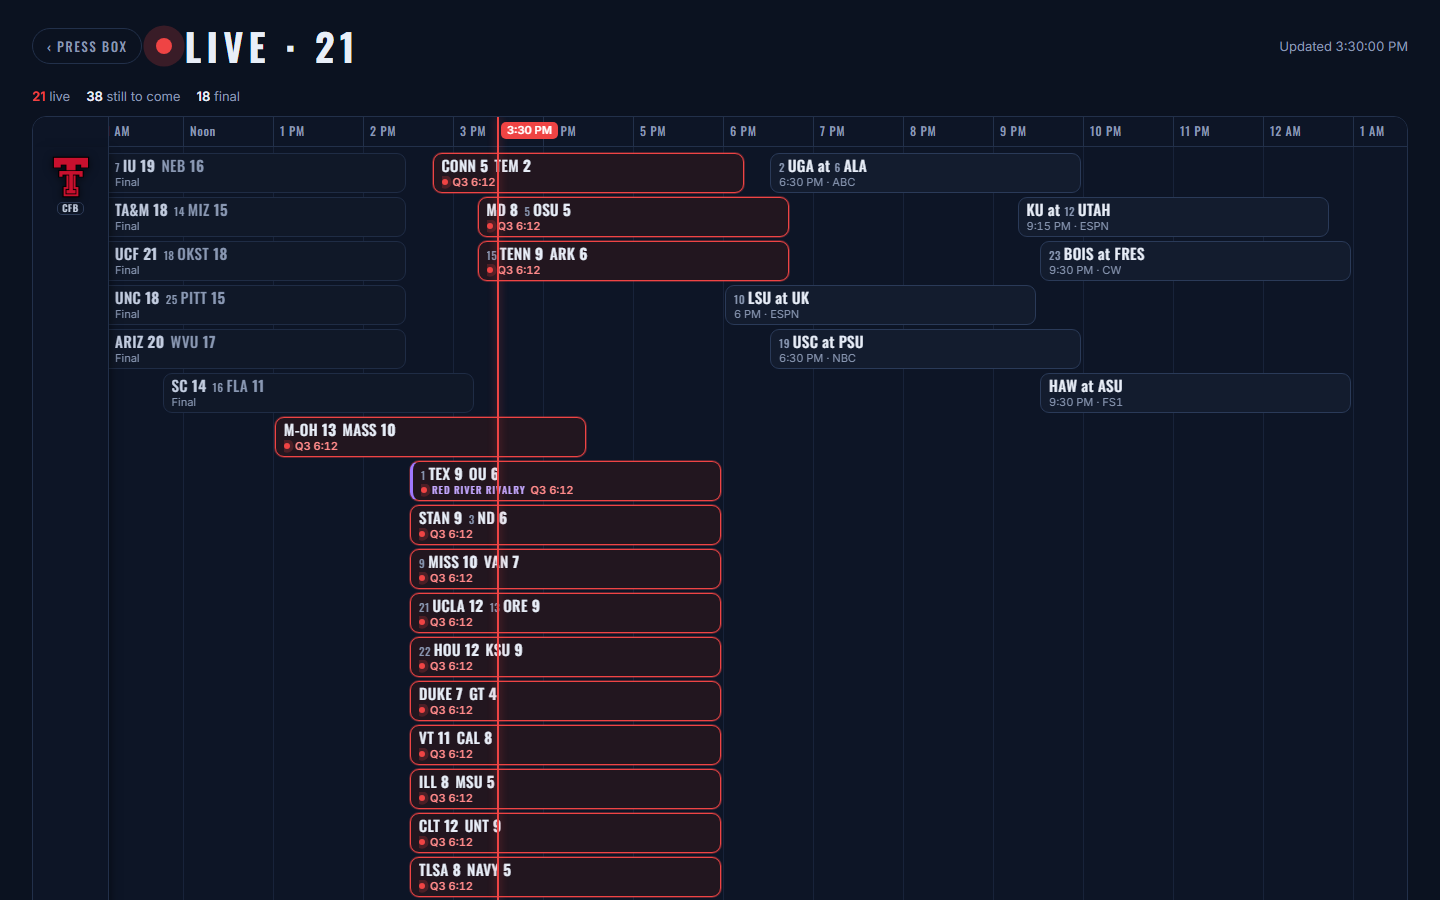
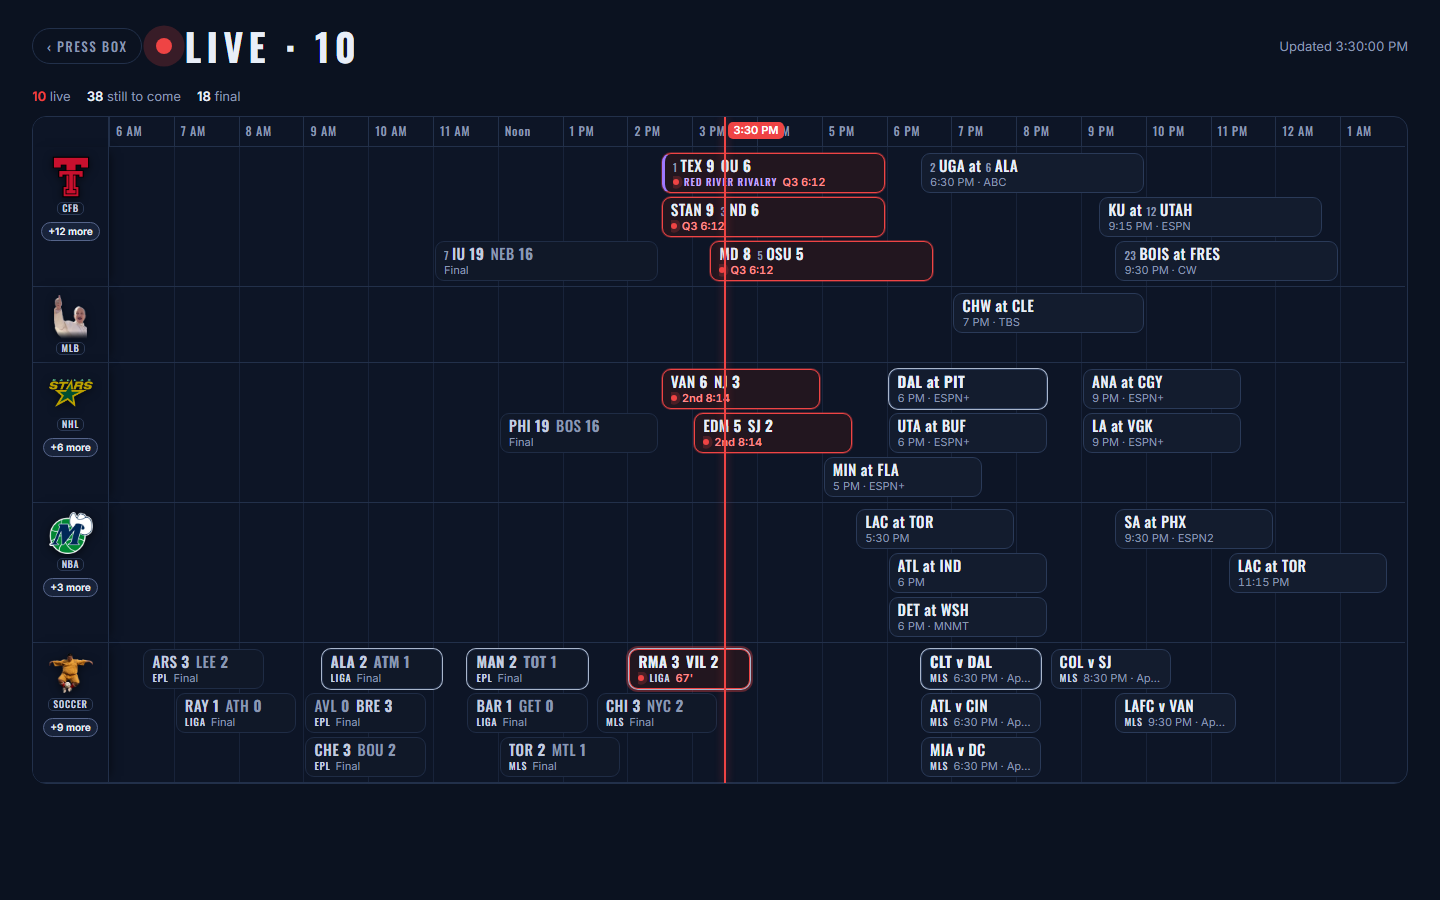
Live v9 fix round 2: keep() filter for live games, 3 lanes a sport with +N more list, PC day fits 1440 without sideways scroll, phone opens at now or first game; check 57/57
Claude-Session: https://claude.ai/code/session_01KJ2oHXb4VY3dh3E3qeNskr

diff --git a/live/index.html b/live/index.html
@@ -142,6 +142,23 @@ h2{border-left-color:#33415e}
 .gs .lead{display:flex;justify-content:space-between;align-items:center;margin-bottom:8px;font-size:12px;color:var(--dim)}
 .gs .lead a{color:var(--ink);font-weight:600;border-bottom:1px solid var(--dim)}
 .gs .g{box-shadow:0 18px 50px rgba(0,0,0,.6)}
+/* round 2: "+N more" under a sport's picture, and the full list it opens */
+.lab .more{margin-top:4px;padding:2px 6px;border-radius:999px;border:1px solid #55648a;background:#18233a;color:var(--ink);cursor:pointer;
+  font:600 10px/1.3 Inter,sans-serif;white-space:nowrap;max-width:calc(100% - 4px);overflow:hidden;text-overflow:ellipsis}
+.lab .more:hover,.lab .more:focus-visible{border-color:var(--ink);outline:none}
+@media (pointer:coarse){.lab .more{padding:5px 6px}}
+.gs .mlist{max-height:min(70vh,560px);overflow-y:auto;padding:6px;display:flex;flex-direction:column;gap:4px}
+.mi{display:grid;grid-template-columns:78px 1fr;gap:10px;align-items:center;width:100%;padding:8px 10px;border-radius:9px;border:1px solid transparent;
+  background:#0f1828;color:var(--ink);font:inherit;font-size:14px;text-align:left;cursor:pointer;min-height:40px}
+.mi:hover,.mi:focus-visible{border-color:#6b7ea3;outline:none}
+.mi .mt{font-size:12px;color:var(--dim);font-variant-numeric:tabular-nums;white-space:nowrap;overflow:hidden;text-overflow:ellipsis}
+.mi.in{border-color:rgba(239,68,68,.5)}.mi.in .mt{color:#ff8a8a;font-weight:600}
+.mi.fav .mm{font-weight:700}
+.mi .mm{min-width:0;overflow:hidden;text-overflow:ellipsis;white-space:nowrap}
+.mi .mm i{font-style:normal;font-size:11px;color:var(--dim);margin-right:3px}
+.mi .mm em{font-style:normal;font-weight:700;font-variant-numeric:tabular-nums}
+.mi .mm .lo{color:var(--dim)}
+.mi .mm .rv{display:block;background:none;padding:0;margin:2px 0 0;border-radius:0;color:#c4a8ff;font:500 10px/1.3 Oswald,sans-serif;letter-spacing:.1em;text-transform:uppercase}
 </style>
 </head>
 <body>
@@ -376,41 +393,70 @@ function openSheet(k) {
   document.getElementById("gs").classList.add("on");
 }
 function closeSheet() { opened = ""; document.getElementById("gs").classList.remove("on"); }
-document.getElementById("dg").addEventListener("click", e => { const b = e.target.closest(".b[data-g]"); if (b) openSheet(b.dataset.g); });
-document.getElementById("gs").addEventListener("click", e => { if (e.target.closest(".x") || e.target.id === "gs") closeSheet(); });
+/* round 2: a sport row keeps a few lanes; the rest of its games sit behind "+N more", a list in the same sheet */
+const MORE = {};
+function openMore(key) {
+  const m = MORE[key]; if (!m) return closeSheet();
+  const old = document.querySelector("#gsb .mlist"), keepTop = opened === "more:" + key && old ? old.scrollTop : 0;
+  opened = "more:" + key;
+  const row = g => { const a = +g.away.score || 0, h = +g.home.score || 0, pre = g.state === "pre", post = g.state === "post";
+    const nm = (t, lose) => `<span${lose ? ' class="lo"' : ""}>${t.rank ? `<i>${t.rank}</i>` : ""}${esc(g.lg.slim || g.lg.soc ? t.name : t.ab)}${pre ? "" : ` <em>${esc(t.score)}</em>`}</span>`;
+    const one = g.lg.soc ? [g.home, h < a && post, g.away, a < h && post] : [g.away, a < h && post, g.home, h < a && post];
+    return `<button type="button" class="mi ${g.state}${g.fav ? " fav" : ""}" data-g="${esc(g.lg.key + ":" + g.id)}"><span class="mt">${pre ? esc(ctTime(g.date)) : esc(g.detail || (post ? "Final" : "Live"))}</span>` +
+      `<span class="mm">${nm(one[0], one[1])}${pre ? (g.lg.soc ? " v " : " at ") : " "}${nm(one[2], one[3])}${g.rival ? `<small class="rv">${esc(g.rival)}</small>` : ""}</span></button>`; };
+  document.getElementById("gsb").innerHTML = `<div class="lead"><span>${esc(m.name)} · ${m.gs.length} games today</span></div><div class="g mlist">${m.gs.map(row).join("")}</div>`;
+  document.querySelector("#gsb .mlist").scrollTop = keepTop;
+  document.getElementById("gs").classList.add("on");
+}
+document.getElementById("dg").addEventListener("click", e => { const mo = e.target.closest(".more[data-more]"); if (mo) return openMore(mo.dataset.more);
+  const b = e.target.closest(".b[data-g]"); if (b) openSheet(b.dataset.g); });
+document.getElementById("gs").addEventListener("click", e => { const mi = e.target.closest(".mi[data-g]"); if (mi) return openSheet(mi.dataset.g);
+  if (e.target.closest(".x") || e.target.id === "gs") closeSheet(); });
 document.addEventListener("keydown", e => { if (e.key === "Escape" && opened && !document.querySelector("#pbpSheet.on")) closeSheet(); });
 document.getElementById("dg").addEventListener("scroll", () => { if (scrolled && !render.busy) userScrolled = true; }, { passive:true });
 function render() {
   const now = new Date(), all = [].concat(...LEAGUES.map(l => data[l.key] || []));
-  const live = all.filter(g => g.state === "in" && (!g.lg.cup || g.fav));
   const day = gridDay(), nowM = dayMin(now, day);
-  const today = all.filter(g => (g.state === "in" && (!g.lg.cup || g.fav)) || (ctKey(g.date) === day && keep(g)));
+  // round 2: live games pass the same keep() filter as the rest (college: his teams, ranked, rivalry, Big 12 country)
+  const today = all.filter(g => (!g.lg.cup || g.fav) && keep(g) && (g.state === "in" || ctKey(g.date) === day));
+  const live = today.filter(g => g.state === "in");
   for (const k in GM) delete GM[k];
+  for (const k in MORE) delete MORE[k];
+  for (const g of today) GM[g.lg.key + ":" + g.id] = g;
   const dg = document.getElementById("dg"), dgi = document.getElementById("dgi"); dg.style.display = "";   // shown before it is measured
   const phone = dg.clientWidth < 560;
-  const LAB = phone ? 58 : 76, LANE = 44, TOP = 6;
+  const LAB = phone ? 58 : 76, LANE = 44, TOP = 6, MAXL = 3;   // at most three lanes a sport, so every sport fits on one screen
   // the hours: from the first start (or now) to the last likely finish (or now), whole hours
   let lo = nowM, hi = nowM + 30;
   const span = g => { const s = dayMin(g.date, day); let e = s + RUN[sportOf(g.lg)]; if (g.state === "in") e = Math.max(e, nowM + 15); return [s, e]; };
   for (const g of today) { const [s, e] = span(g); lo = Math.min(lo, s); hi = Math.max(hi, e); }
   const h0 = Math.max(-6, Math.floor(lo / 60)), h1 = Math.max(h0 + 3, Math.ceil(hi / 60));
-  const PX = Math.max(phone ? 120 : 90, Math.floor((dg.clientWidth - LAB - 2) / (h1 - h0)));
-  const X = m => LAB + (m - h0 * 60) * PX / 60, W = LAB + (h1 - h0) * PX;
+  // the phone scrolls the hours sideways; the PC squeezes the whole day into its width, no sideways scroll
+  const PX = phone ? Math.max(120, Math.floor((dg.clientWidth - LAB - 2) / (h1 - h0))) : Math.max(24, (dg.clientWidth - LAB - 2) / (h1 - h0));
+  const X = m => LAB + (m - h0 * 60) * PX / 60, W = Math.floor(LAB + (h1 - h0) * PX);
+  const every = PX < 46 ? 2 : 1;   // a squeezed day names every other hour
   let rows = "", hours = "";
-  for (let h = h0; h < h1; h++) hours += `<span class="hr" style="left:${X(h * 60)}px;width:${PX}px">${hourName(h)}</span>`;
+  for (let h = h0; h < h1; h++) if ((h - h0) % every === 0) hours += `<span class="hr" style="left:${X(h * 60)}px;width:${PX * every}px">${hourName(h)}</span>`;
+  // which games get a lane first: his teams, live ones, rivalries, ranked, then by start time
+  const pri = g => (g.fav ? 1000 : 0) + (g.state === "in" ? 400 : 0) + (g.rival ? 200 : 0) + (g.away.rank || g.home.rank ? 100 - Math.min(g.away.rank || 99, g.home.rank || 99) : 0);
   for (const sp of SPORTS) {
     const gs = today.filter(g => sportOf(g.lg) === sp.key).sort((p, q) => (p.date - q.date) || (q.fav - p.fav));
     if (!gs.length) continue;   // a sport with nothing today gets no row
-    const ends = [], out = [];
-    for (const g of gs) {   // each game takes the first lane that is free at its start
-      const [s, e] = span(g); let i = ends.findIndex(t => t <= s);
-      if (i < 0) { i = ends.length; ends.push(0); }
-      ends[i] = e + 2;
-      out.push(block(g, X(s) + 2, Math.max(64, (e - s) * PX / 60 - 4), TOP + i * LANE));
+    const lanes = [], out = [];
+    let hid = 0;
+    for (const g of gs.slice().sort((p, q) => (pri(q) - pri(p)) || (p.date - q.date))) {   // each game takes the first lane free for its whole run
+      const [s, e] = span(g);
+      let i = lanes.findIndex(L => L.every(([a, b]) => e + 2 <= a || s >= b + 2));
+      if (i < 0 && lanes.length < MAXL) { i = lanes.length; lanes.push([]); }
+      if (i < 0) { hid++; continue; }   // no room: it waits behind "+N more"
+      lanes[i].push([s, e]);
+      out.push(block(g, X(s) + 2, Math.max(phone ? 64 : 40, (e - s) * PX / 60 - 4), TOP + i * LANE));
     }
-    const ht = Math.max(76, TOP * 2 + ends.length * LANE - 4);
+    if (hid) MORE[sp.key] = { name:sp.name, gs };
+    const ht = Math.max(hid ? 96 : 76, TOP * 2 + lanes.length * LANE - 4);
     let lines = ""; for (let h = h0 + 1; h < h1; h++) lines += `<i class="hl" style="left:${X(h * 60) - LAB}px"></i>`;
-    rows += `<div class="sp" style="height:${ht}px"><div class="lab" style="width:${LAB}px" title="${esc(sp.name)}"><img src="${esc(sp.img)}" alt="${esc(sp.name)}"><span class="lc">${esc(sp.chip)}</span></div>` +
+    rows += `<div class="sp" style="height:${ht}px"><div class="lab" style="width:${LAB}px" title="${esc(sp.name)}"><img src="${esc(sp.img)}" alt="${esc(sp.name)}"><span class="lc">${esc(sp.chip)}</span>` +
+      (hid ? `<button type="button" class="more" data-more="${esc(sp.key)}" title="All ${gs.length} ${esc(sp.name)} games today">+${hid} more</button>` : "") + `</div>` +
       `<div class="ln" style="width:${W - LAB}px">${lines}</div>${out.join("")}</div>`;
   }
   const inDay = nowM >= h0 * 60 && nowM <= h1 * 60;
@@ -419,12 +465,17 @@ function render() {
   dgi.innerHTML = rows ? `<div class="ax"><span class="lab" style="width:${LAB}px"></span>${hours}</div>${rows}` +
     (inDay ? `<div class="now" style="left:${X(nowM)}px"><span>${esc(ctTime(now))}</span></div>` : "") : "";
   dg.style.display = rows ? "" : "none";
-  if (rows && !userScrolled) { dg.scrollLeft = Math.max(0, X(nowM) - LAB - (dg.clientWidth - LAB) * .3); scrolled = true; }
+  // the phone opens at now; if nothing is on yet, at the first game still to come (or now, once the day is done)
+  if (rows && !userScrolled) {
+    const next = today.filter(g => g.state === "pre").map(g => dayMin(g.date, day)).sort((p, q) => p - q)[0];
+    const at = live.length || next == null || next <= nowM ? X(nowM) - LAB - (dg.clientWidth - LAB) * .3 : X(next) - LAB - 30;
+    dg.scrollLeft = Math.max(0, at); scrolled = true;
+  }
   setTimeout(() => { render.busy = false; }, 50);
   const n = s => today.filter(g => g.state === s).length;
   document.getElementById("sum").innerHTML = rows ? `<span class="lv"><b>${live.length}</b> live</span><span><b>${n("pre")}</b> still to come</span><span><b>${n("post")}</b> final</span>` : "";
   document.getElementById("msg").innerHTML = rows ? "" : `<div class="empty"><strong>No games today</strong>${Object.keys(data).length ? "This page fills in on its own when the day's games are posted." : "Waiting on the feeds."}</div>`;
-  if (opened) GM[opened] ? openSheet(opened) : closeSheet();
+  if (opened) opened.startsWith("more:") ? openMore(opened.slice(5)) : GM[opened] ? openSheet(opened) : closeSheet();
   document.getElementById("ttl").className = live.length ? "on" : "";
   document.getElementById("ttlText").textContent = live.length ? `Live · ${live.length}` : "Live";
   document.title = (live.length ? `(${live.length}) ` : "") + "Live · Press Box";

diff --git a/_tests/live-daygrid/test-page.js b/_tests/live-daygrid/test-page.js
@@ -68,7 +68,12 @@ async function open(b, w, mob, cs, errs) {
     const r = await p.evaluate(() => { const dg = document.getElementById('dg'), now = dg.querySelector('.now'), labs = [...dg.querySelectorAll('.sp .lab img')];
       const nr = now && now.getBoundingClientRect(), gr = dg.getBoundingClientRect();
       return { rows: labs.map(i => i.alt), imgs: labs.every(i => i.complete && i.naturalWidth > 0), blocks: dg.querySelectorAll('.b').length, live: dg.querySelectorAll('.b.in').length,
-        nowSeen: !!nr && nr.left >= gr.left && nr.left <= gr.right, scrolls: dg.scrollWidth > dg.clientWidth + 2, scrollLeft: dg.scrollLeft,
+        nowSeen: !!nr && nr.left >= gr.left && nr.left <= gr.right,
+        firstSeen: (() => { const p = [...dg.querySelectorAll('.b.pre')].map(x => x.getBoundingClientRect().left).sort((a, c) => a - c)[0]; return p != null && p >= gr.left && p <= gr.right; })(),
+        anyLive: !!dg.querySelector('.b.in'),
+        lanes: Math.max(0, ...[...dg.querySelectorAll('.sp')].map(sp => new Set([...sp.querySelectorAll('.b')].map(x => x.style.top)).size)),
+        gridBottom: Math.round(dg.getBoundingClientRect().bottom), winH: innerHeight,
+        more: [...dg.querySelectorAll('.more')].map(m => m.dataset.more + ' ' + m.textContent), scrolls: dg.scrollWidth > dg.clientWidth + 2, scrollLeft: dg.scrollLeft,
         pageOverflow: document.documentElement.scrollWidth > innerWidth + 1, tabs: document.querySelectorAll('h2,.li').length,
         late: !!dg.querySelector('.b[data-g="nba:999000111"]'), labW: dg.querySelector('.sp .lab') ? dg.querySelector('.sp .lab').offsetWidth : 0, sum: document.getElementById('sum').textContent,
         overlap: (() => { const bs = [...dg.querySelectorAll('.b')].map(x => x.getBoundingClientRect()); for (let i = 0; i < bs.length; i++) for (let j = i + 1; j < bs.length; j++) { const a = bs[i], c = bs[j];
@@ -76,7 +81,10 @@ async function open(b, w, mob, cs, errs) {
     console.log('   ' + tag + ': rows ' + r.rows.join(', ') + ' | blocks ' + r.blocks + ' | live ' + r.live + ' | ' + r.sum + ' | scrollLeft ' + r.scrollLeft);
     ok(r.rows.length > 0 && r.imgs, tag + ': one row per sport with its picture loaded');
     ok(r.tabs === 0, tag + ': the old league sections and chip list rows are gone');
-    ok(r.nowSeen, tag + ': the now line is in view on open');
+    ok(r.anyLive ? r.nowSeen : (r.nowSeen || r.firstSeen), tag + ': opens at now, or at the first game if nothing is on yet');
+    ok(r.lanes <= 3, tag + ': no sport row takes more than 3 lanes (' + r.lanes + ')' + (r.more.length ? ', ' + r.more.join(', ') : ''));
+    if (!mob) ok(!r.scrolls, tag + ': the whole day fits the width, no sideways scroll');
+    if (!mob) ok(r.gridBottom <= r.winH, tag + ': every sport row fits on one screen (grid ends at ' + r.gridBottom + ' of ' + r.winH + ')');
     ok(!r.overlap, tag + ': no two game blocks overlap');
     ok(!r.pageOverflow, tag + ': the page itself does not scroll sideways');
     if (mob) ok(r.scrolls, tag + ': the hours scroll sideways on a phone');
@@ -87,6 +95,16 @@ async function open(b, w, mob, cs, errs) {
     if (mob) {   // the pinned pictures stay put when the hours scroll
       const s = await p.evaluate(() => { const dg = document.getElementById('dg'), l = dg.querySelector('.sp .lab'), x0 = l.getBoundingClientRect().left; dg.scrollLeft += 300; return new Promise(res => setTimeout(() => res([x0, l.getBoundingClientRect().left]), 100)); });
       ok(Math.abs(s[0] - s[1]) < 1, tag + ': sport pictures stay pinned while the hours scroll (' + s.map(Math.round).join(' -> ') + ')');
+    }
+    if (await p.evaluate(() => !!document.querySelector('.more'))) {   // "+N more" opens the full list; a row in it opens that game's card
+      const n = (await p.evaluate(() => { const m = document.querySelector('.more'), shown = m.closest('.sp').querySelectorAll('.b').length; return { n: shown + parseInt(m.textContent.slice(1), 10) }; })).n;
+      await p.click('.more'); await p.waitForTimeout(300);
+      const ml = await p.evaluate(() => ({ on: document.getElementById('gs').classList.contains('on'), rows: document.querySelectorAll('#gsb .mi').length }));
+      ok(ml.on && ml.rows === n, tag + ': "+N more" opens the full list (' + ml.rows + ' of ' + n + ' games)');
+      await p.screenshot({ path: path.join(OUT, 'live-v9-' + cs.tag + '-' + w + '-more.png') });
+      await p.click('#gsb .mi:last-child'); await p.waitForTimeout(300);
+      ok(await p.evaluate(() => !!document.querySelector('#gsb .g[href]')), tag + ': a game in the list opens its card');
+      await p.keyboard.press('Escape'); await p.waitForTimeout(200);
     }
     const pick = cs.clock ? '.b.in' : '.b';
     if (await p.evaluate(s => !!document.querySelector(s), pick)) {

diff --git a/_notes/live-daygrid-handoff.md b/_notes/live-daygrid-handoff.md
@@ -29,3 +29,12 @@ Screenshots: preview/live-v9-*.png
   pictures. Either is a one-line CSS change.
 - A busy college Saturday makes the CFB row tall (one lane per game on at once, up to about 20).
 - Game lengths are estimates; ESPN gives no end time.
+
+## Fix round 2
+- Live college games go through the same filter as the rest (his teams, ranked, rivalry, Big 12 country).
+- A sport row has at most 3 lanes. His games, live games, rivalries and ranked games get lanes first; the rest sit behind
+  "+N more" under the sport picture, which opens the sport's full list for the day. Tap a row there for its card.
+- PC: the whole day fits the width at 1440 px, no sideways scroll. Busy Saturday: all 5 sports fit, grid ends at 784 px.
+- Phone: opens at now, or at the first game still to come if nothing is on yet.
+- Check: 57/57 (bun _tests/live-daygrid/test-page.js). New screenshots: preview/live-v9-*-more.png.
+- Unsure: today's NHL also overflows (4 games at 6 PM, one behind "+1 more"). The cap is MAXL in render() if he wants 4.

diff --git a/_notes/live-daygrid-progress.md b/_notes/live-daygrid-progress.md
@@ -9,3 +9,10 @@
   when a game began off to the left, grid measured while shown. Progress note moved into _notes so a merge does not
   collide with the untracked PROGRESS.md in hub.
 - Done. Landing page untouched (see handoff).
+- Fix round 2 (check FAILED on the CFB row): keep() now applies to live games too; each sport row keeps at most 3 lanes
+  (his teams, live, rivalry, ranked get lanes first) and the rest sit behind a "+N more" chip under the sport picture,
+  which opens the full list in the sheet (tap a game for its card). PC squeezes the whole day into 1440 px, no sideways
+  scroll (every other hour named when squeezed). Phone opens at now, or at the first game if nothing is on yet.
+  Page check 57/57 at 1440 and 390, today and busy Saturday; busy Saturday grid ends at 784 of 900 px at 1440.
+  Screenshots refreshed in preview, plus live-v9-*-more.png. Note: one stray stdin python was started by mistake and
+  stopped at once (two processes, killed by id).
